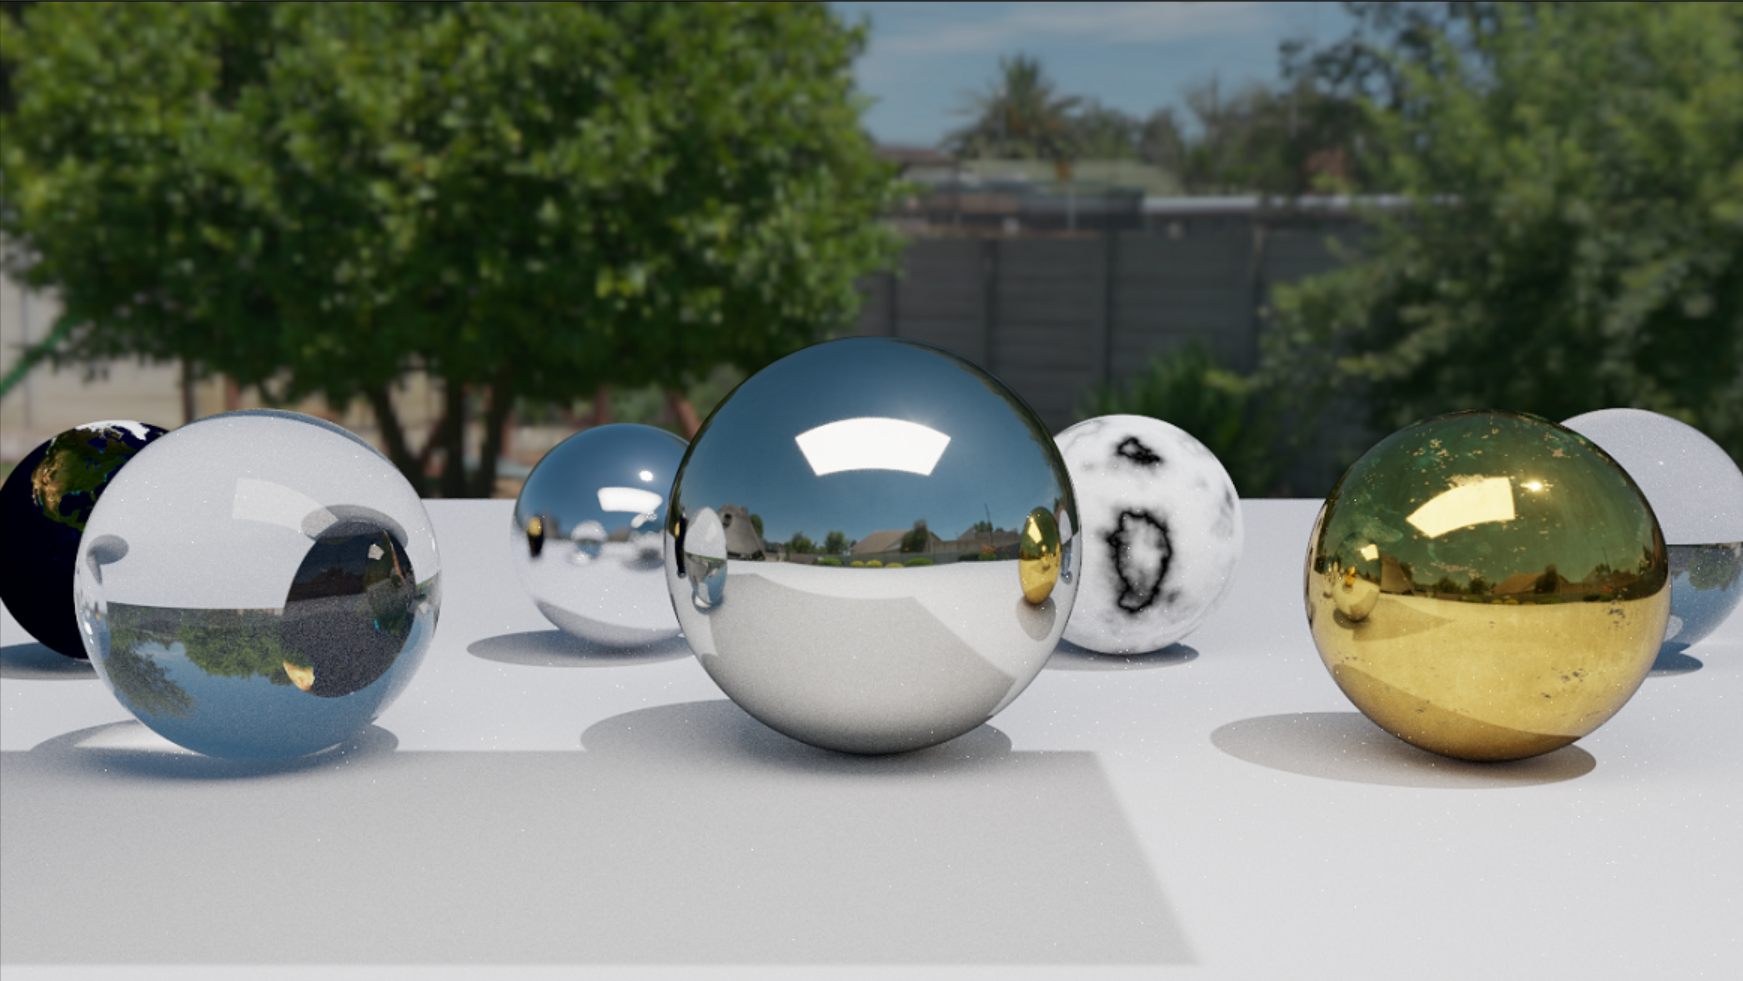
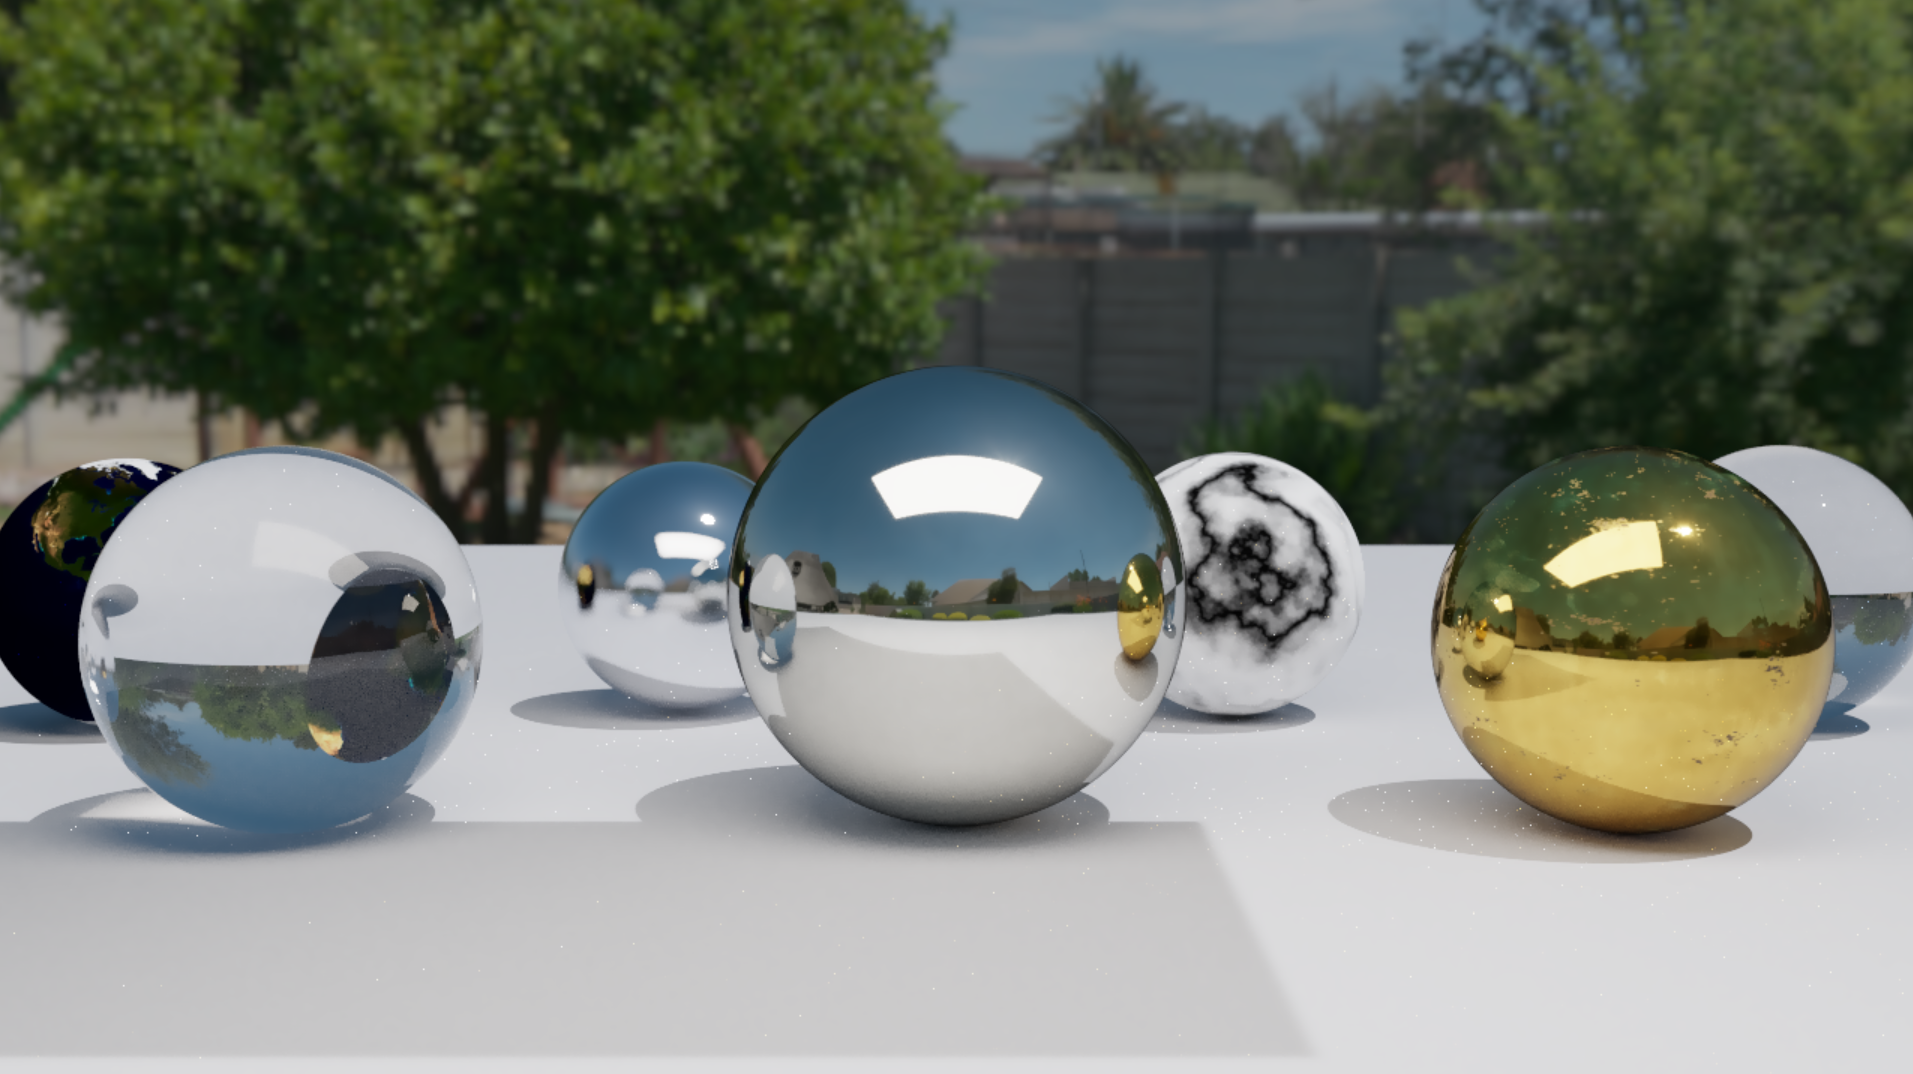
Finish progressive denoise output flow

diff --git a/PathTracer-CPP/Camera.h b/PathTracer-CPP/Camera.h
@@ -41,6 +41,13 @@ public :
 		Parallel
 	};
 
+	enum class Progressive_Output_Mode
+	{
+		Raw,
+		Denoised,
+		Denoised_With_Raw
+	};
+
 	// Image
 	double aspect_ratio     = 16.0 / 9.0;
 	int    image_width      = 400;
@@ -49,6 +56,7 @@ public :
 	Color  background;
 	std::string output_filename = "image.ppm";
 	Render_Mode render_mode = Render_Mode::Parallel;
+	Progressive_Output_Mode progressive_output_mode = Progressive_Output_Mode::Denoised;
 
 	double  vfov     = 90;
 	Vector3 lookfrom = Point3(0, 0, 0);
@@ -283,14 +291,15 @@ private :
 	{
 		initialize();
 
-		std::ofstream out(output_filename);
-		if (!out.is_open())
-		{
-			std::cerr << "Error: Cannot open file.\n";
+		if (!can_open_output_file(output_filename))
 			return;
-		}
 
-		out << "P3\n" << image_width << ' ' << image_height << "\n255\n";
+		const bool writes_raw_sidecar =
+			progressive_output_mode == Progressive_Output_Mode::Denoised_With_Raw;
+		const std::string raw_output_filename =
+			add_filename_suffix(output_filename, "_raw");
+		if (writes_raw_sidecar && !can_open_output_file(raw_output_filename))
+			return;
 
 		const size_t pixel_count = static_cast<size_t>(image_width) * image_height;
 		std::vector<Color> accumulation(pixel_count, Color(0, 0, 0));
@@ -360,10 +369,13 @@ private :
 			}
 		}
 
-		if (preview && !preview->IsClosed())
+		const bool writes_denoised_output =
+			progressive_output_mode != Progressive_Output_Mode::Raw;
+		const bool needs_filtered_framebuffer =
+			writes_denoised_output || (preview && !preview->IsClosed());
+
+		if (needs_filtered_framebuffer)
 		{
-			auto now = std::chrono::steady_clock::now();
-			std::chrono::duration<double> elapsed_seconds = now - preview_start_time;
 			PostProcessInput post_input{
 				framebuffer,
 				guide_buffer,
@@ -372,7 +384,15 @@ private :
 			};
 			PostProcessOutput post_output{ filtered_framebuffer };
 			preview_denoiser.Apply(post_input, post_output);
-			copy_framebuffer_to_preview(filtered_framebuffer, preview_pixels);
+		}
+
+		if (preview && !preview->IsClosed())
+		{
+			auto now = std::chrono::steady_clock::now();
+			std::chrono::duration<double> elapsed_seconds = now - preview_start_time;
+			const std::vector<Color>& preview_framebuffer =
+				needs_filtered_framebuffer ? filtered_framebuffer : framebuffer;
+			copy_framebuffer_to_preview(preview_framebuffer, preview_pixels);
 			preview->UpdateProgressiveImage(
 				preview_pixels,
 				total_samples,
@@ -380,13 +400,11 @@ private :
 				elapsed_seconds.count());
 		}
 
-		for (int j = 0; j < image_height; j++)
-		{
-			for (int i = 0; i < image_width; i++)
-			{
-				write_color(out, framebuffer[static_cast<size_t>(j) * image_width + i]);
-			}
-		}
+		const std::vector<Color>& output_framebuffer =
+			writes_denoised_output ? filtered_framebuffer : framebuffer;
+		if (writes_raw_sidecar)
+			write_framebuffer_to_file(raw_output_filename, framebuffer);
+		write_framebuffer_to_file(output_filename, output_framebuffer);
 
 		std::clog << "\rDone.                 \n";
 	}
@@ -421,6 +439,55 @@ private :
 	static int tile_height(const RenderTile& tile)
 	{
 		return tile.y_end - tile.y_begin;
+	}
+
+	bool can_open_output_file(const std::string& filename) const
+	{
+		std::ofstream out(filename);
+		if (!out.is_open())
+		{
+			std::cerr << "Error: Cannot open file: " << filename << "\n";
+			return false;
+		}
+
+		return true;
+	}
+
+	void write_framebuffer_to_file(
+		const std::string& filename,
+		const std::vector<Color>& framebuffer) const
+	{
+		std::ofstream out(filename);
+		if (!out.is_open())
+		{
+			std::cerr << "Error: Cannot open file: " << filename << "\n";
+			return;
+		}
+
+		out << "P3\n" << image_width << ' ' << image_height << "\n255\n";
+		for (int j = 0; j < image_height; j++)
+		{
+			for (int i = 0; i < image_width; i++)
+			{
+				write_color(out, framebuffer[static_cast<size_t>(j) * image_width + i]);
+			}
+		}
+	}
+
+	static std::string add_filename_suffix(
+		const std::string& filename,
+		const std::string& suffix)
+	{
+		const size_t slash = filename.find_last_of("/\\");
+		const size_t dot = filename.find_last_of('.');
+		const bool has_extension =
+			dot != std::string::npos &&
+			(slash == std::string::npos || dot > slash);
+
+		if (!has_extension)
+			return filename + suffix;
+
+		return filename.substr(0, dot) + suffix + filename.substr(dot);
 	}
 
 	void copy_framebuffer_to_preview(

diff --git a/PathTracer-CPP/Renderer.cpp b/PathTracer-CPP/Renderer.cpp
@@ -14,6 +14,11 @@
 #include "Triangle.h"
 #include "ObjLoader.h"
 
+namespace
+{
+	constexpr bool kKeepPreviewOpenAfterRender = false;
+}
+
 void Bouncing_Spheres();
 void Checker_Spheres();
 void Earth();
@@ -41,7 +46,8 @@ void RenderAndPreview(Camera& cam, const Hittable& world)
 	cam.RenderProgressive(world, &preview);
 	const double render_seconds = timer.stop();
 	preview.SetFinished(render_seconds);
-	preview.WaitUntilClosed();
+	if (kKeepPreviewOpenAfterRender)
+		preview.WaitUntilClosed();
 }
 void RenderAndPreview(Camera& cam, const Hittable& world, const Hittable& lights)
 {
@@ -50,7 +56,8 @@ void RenderAndPreview(Camera& cam, const Hittable& world, const Hittable& lights
 	cam.RenderProgressive(world, lights, &preview);
 	const double render_seconds = timer.stop();
 	preview.SetFinished(render_seconds);
-	preview.WaitUntilClosed();
+	if (kKeepPreviewOpenAfterRender)
+		preview.WaitUntilClosed();
 }
 
 int main()
@@ -1145,7 +1152,7 @@ void README_Showcase()
 	Camera cam;
 	cam.aspect_ratio = 16.0 / 9.0;
 	cam.image_width = 1280;
-	cam.sample_per_pixel = 300;
+	cam.sample_per_pixel = 1000;
 	cam.max_depth = 25;
 	cam.vfov = 27;
 	cam.lookfrom = Point3(0.0, 1.55, 12.3);

diff --git a/README.md b/README.md
@@ -1,6 +1,6 @@
 # PathTracer-CPP
 
-`PathTracer-CPP` 是一个使用 `C++20` 编写的 CPU 路径追踪器学习项目。项目最初参考了 [Ray Tracing in One Weekend](https://raytracing.github.io/) 系列教程，并在此基础上逐步扩展出三角形网格、OBJ/MTL 资产加载、PBR 材质、GGX/VNDF 采样、IBL、MIS、体积散射与并行 tile 渲染。
+`PathTracer-CPP` 是一个使用 `C++20` 编写的 CPU 路径追踪器学习项目。项目最初参考了 [Ray Tracing in One Weekend](https://raytracing.github.io/) 系列教程，并在此基础上逐步扩展出三角形网格、OBJ/MTL 资产加载、PBR 材质、GGX/VNDF 采样、IBL、MIS、体积散射、渐进式预览、后处理降噪与并行 tile 渲染。
 
 仓库地址：[JiaT-T/PathTracer-CPP](https://github.com/JiaT-T/PathTracer-CPP)
 
@@ -19,6 +19,7 @@
 - 玻璃、传统金属、程序纹理、贴图纹理
 - 常量密度体积散射
 - 景深
+- 渐进式预览与最终 denoised 输出
 
 ## 当前能力
 
@@ -31,7 +32,9 @@
 - 纹理：`Solid_Color`、`Checker_Texture`、`Image_Texture`、`Noise_Texture`
 - 体积：`Constant_Medium`
 - 相机：景深、运动模糊
-- 预览：实时 PPM 预览窗口
+- 预览：基于 accumulation framebuffer 的 progressive rendering 预览窗口
+- 后处理：基于 `albedo / normal / depth` guide buffer 的 A-Trous 风格 denoise
+- 输出：progressive 渲染支持 raw / denoised / denoised + raw sidecar 输出模式
 - 并行：基于 `std::execution::par` 的 tile 分块渲染
 
 ### PBR / IBL / MIS
@@ -62,6 +65,17 @@
 - 三角形 `TBN` 构建
 - tangent-space normal map
 - OpenGL / DirectX 法线贴图约定切换
+
+### Progressive Preview / Post Process
+
+当前 progressive 渲染路径位于 `Camera::RenderProgressive()` 与 `render_progressive_impl()`：
+
+- 每轮 sample 更新一次 accumulation framebuffer，预览窗口显示原始采样逐步收敛过程
+- 首次 sample 生成 `PixelGuide`，记录 `albedo`、`normal`、`depth` 与 `sample_count`
+- `PostProcess.h` 中定义 `PostProcess` 基类与 `AtrousDenoiser`
+- A-Trous 风格滤波使用 guide buffer、原始颜色差异与深度 / 法线权重限制跨边界扩散
+- 后处理只在所有 sample 完成后执行一次，再替换预览窗口中的最终图像
+- `Camera::progressive_output_mode` 控制最终写出 raw、denoised，或同时写出 denoised 与 `*_raw.ppm`
 
 ## 代表性场景
 
@@ -99,7 +113,8 @@
 
 输出文件：
 
-- `readme_showcase.ppm`
+- `readme_showcase.ppm`：默认写出 denoised 最终图像
+- `readme_showcase_raw.ppm`：当 `progressive_output_mode` 使用 `Denoised_With_Raw` 时额外写出
 
 ## Benchmark
 
@@ -145,8 +160,10 @@
 ### 输出说明
 
 - 渲染结果会写入 `Camera::output_filename` 指定文件
+- progressive 渲染默认写出 denoised 最终图像
+- 如需保留原始采样结果，可将 `Camera::progressive_output_mode` 设为 `Raw` 或 `Denoised_With_Raw`
 - 控制台会输出进度和总渲染时间
-- 渲染过程中会弹出实时预览窗口
+- 渲染过程中会弹出实时预览窗口，渲染完成后显示最终后处理结果
 
 ## 资源与纹理
 
@@ -180,12 +197,14 @@ OBJ 加载时会优先在模型目录内查找 `.mtl` 及其关联贴图。
   - subsurface
   - sheen
 - 还没有 EXR / HDR 输出链路
+- 当前 denoise 是基于 guide buffer 的空间滤波，还没有 variance / history buffer
 
 ## 后续方向
 
 下一阶段更值得继续推进的是：
 
-1. 继续优化第一跳 direct-lighting 采样预算
-2. 处理 normal map 的黑槽 / shadow terminator 问题
-3. 为大场景资产补 triangulation 与 alpha cutout
-4. 再考虑更复杂材质层与更高质量输出格式
+1. 为 denoise 增加 variance buffer 与 debug buffer 可视化
+2. 继续优化第一跳 direct-lighting 采样预算
+3. 处理 normal map 的黑槽 / shadow terminator 问题
+4. 为大场景资产补 triangulation 与 alpha cutout
+5. 再考虑更复杂材质层与更高质量输出格式
